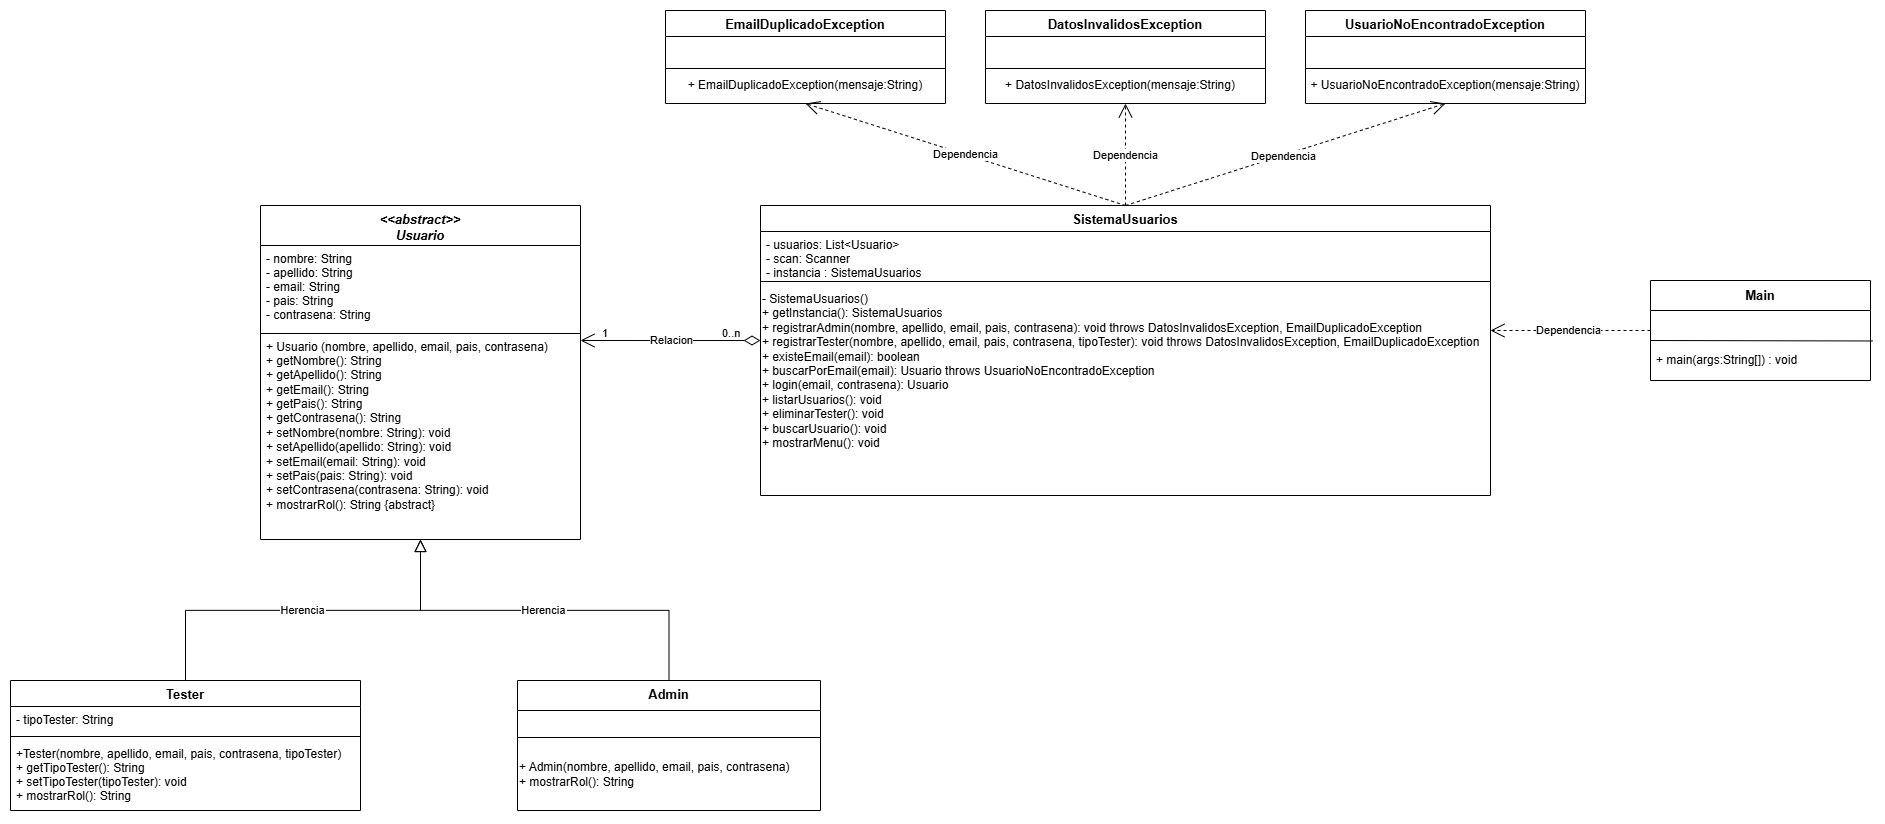
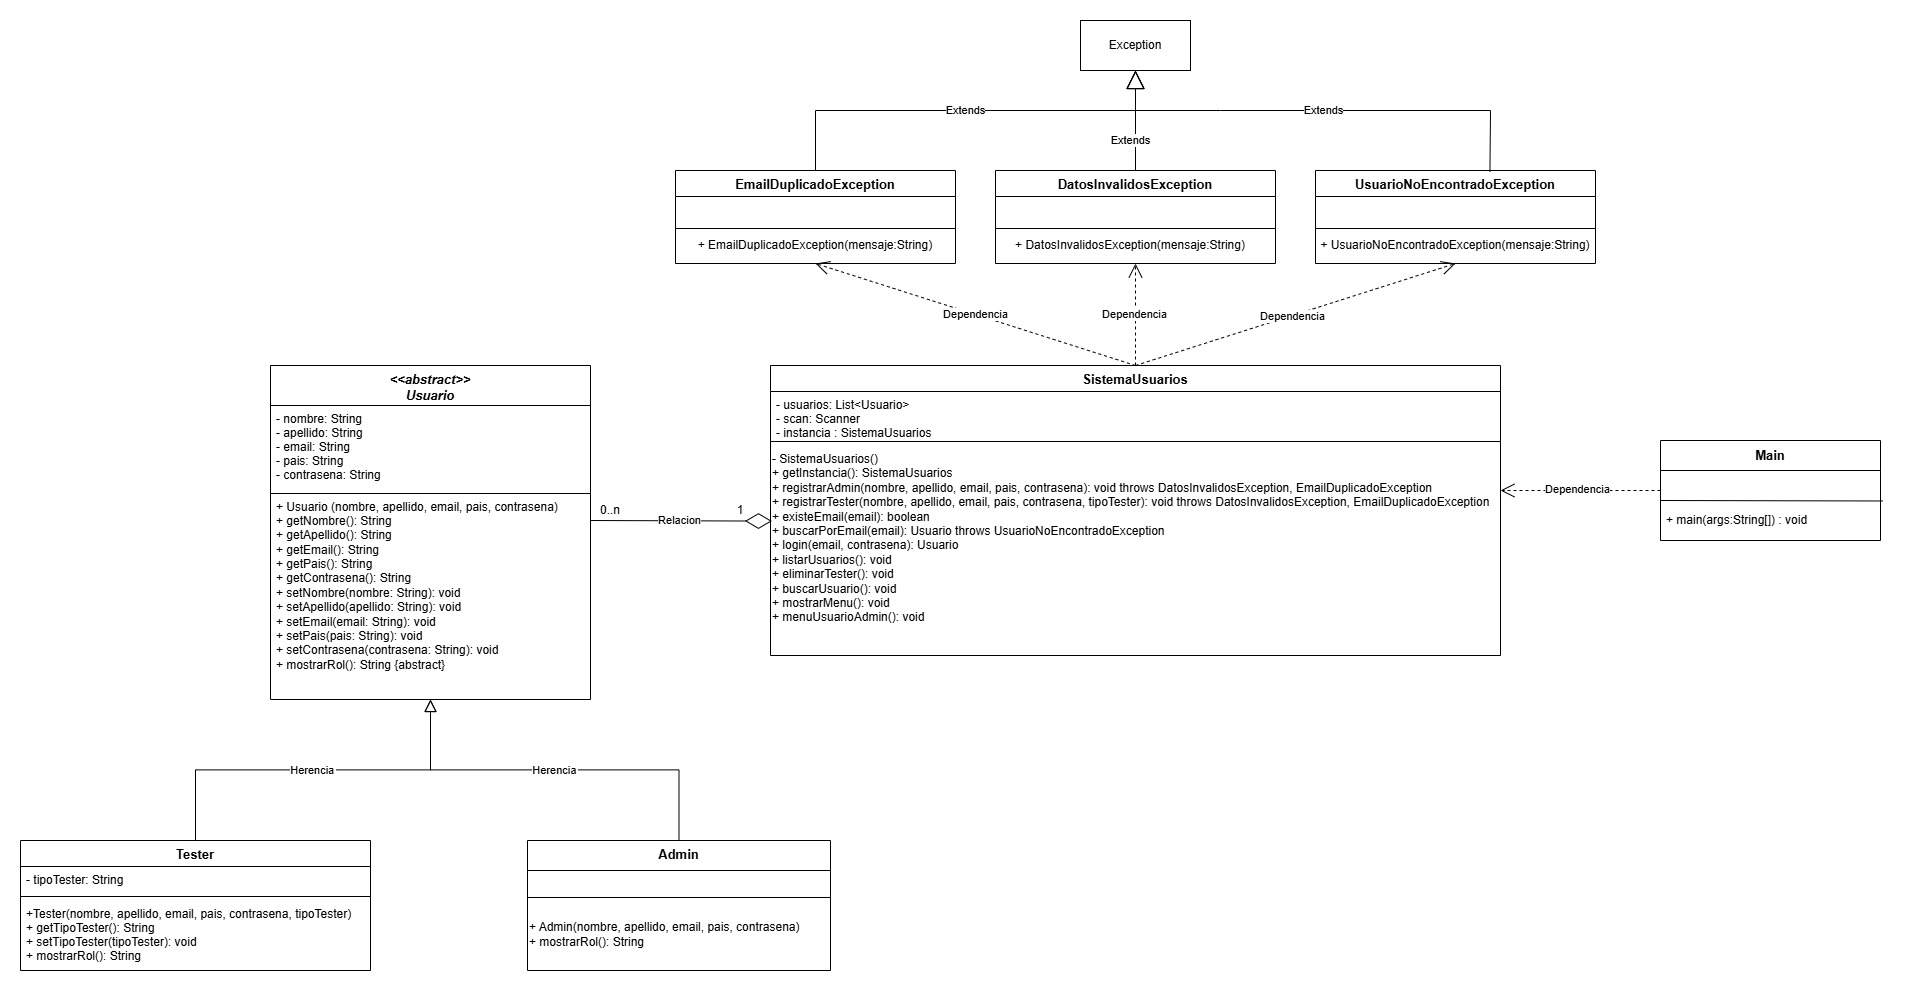
Proyecto Actualizado - prueba final

diff --git a/src/projectJava/SistemaUsuarios.java b/src/projectJava/SistemaUsuarios.java
@@ -1,12 +1,12 @@
 package projectJava;
 
-import projectJava.excepciones.DatosInvalidosException;
-import projectJava.excepciones.EmailDuplicadoException; // Excepción personalizada que se lanza cuando se intenta registrar un email que ya existe.
-import projectJava.excepciones.UsuarioNoEncontradoException;
+import projectJava.excepciones.DatosInvalidosException; // Se usa cuando los datos ingresados por el usuario no cumplen con las validaciones requeridas
+import projectJava.excepciones.EmailDuplicadoException; // Se usa cuando se intenta registrar un email que ya se encuentra en el sistema
+import projectJava.excepciones.UsuarioNoEncontradoException; // Se utiliza cuando no se encuentra un usuario con el email ingresado
 
-import java.util.ArrayList;
-import java.util.List;
-import java.util.Scanner;
+import java.util.ArrayList; // Permite trabajar con listas dinámicas de usuarios.
+import java.util.List; // Permite declarar listas de usuarios.
+import java.util.Scanner; // Permite leer los datos ingresados por el usuario desde la consola.
 
 public class SistemaUsuarios {
 
@@ -29,8 +29,8 @@ public class SistemaUsuarios {
 
           return instancia;
      }
-     // Metodo para solicitar al usuario un número entero y valide que no esté vacío ni contenga caracteres inválidos, evitando que el programa se detenga.
-     // Si el dato es incorrecto, vuelve a solicitarlo hasta que sea válido
+     // Metodo para solicitar un número entero y valide que el dato ingresado sea correcto.
+     // Si el dato es incorrecto, se vuelve a solicitarlo hasta que sea válido
      private int leerEntero(String mensaje) {
 
           while (true) {
@@ -52,7 +52,7 @@ public class SistemaUsuarios {
           }
      }
 
-     // Usuarios precargados
+     // Usuarios precargados en el sistema
      private void cargarUsuariosPrueba() {
           usuarios.add(new Admin("Carlos", "Garcia", "carlos@admin.com", "Argentina", "admin1234"));
           usuarios.add(new Admin("Laura", "Martinez", "laura@admin.com", "Colombia", "admin5678"));
@@ -66,6 +66,7 @@ public class SistemaUsuarios {
      }
 
      // Métodos públicos
+
      public void registrarAdmin(String nombre, String apellido, String email,String pais, String contrasena)
              throws DatosInvalidosException, EmailDuplicadoException {
           // Verifica que los datos obligatorios sean válidos.
